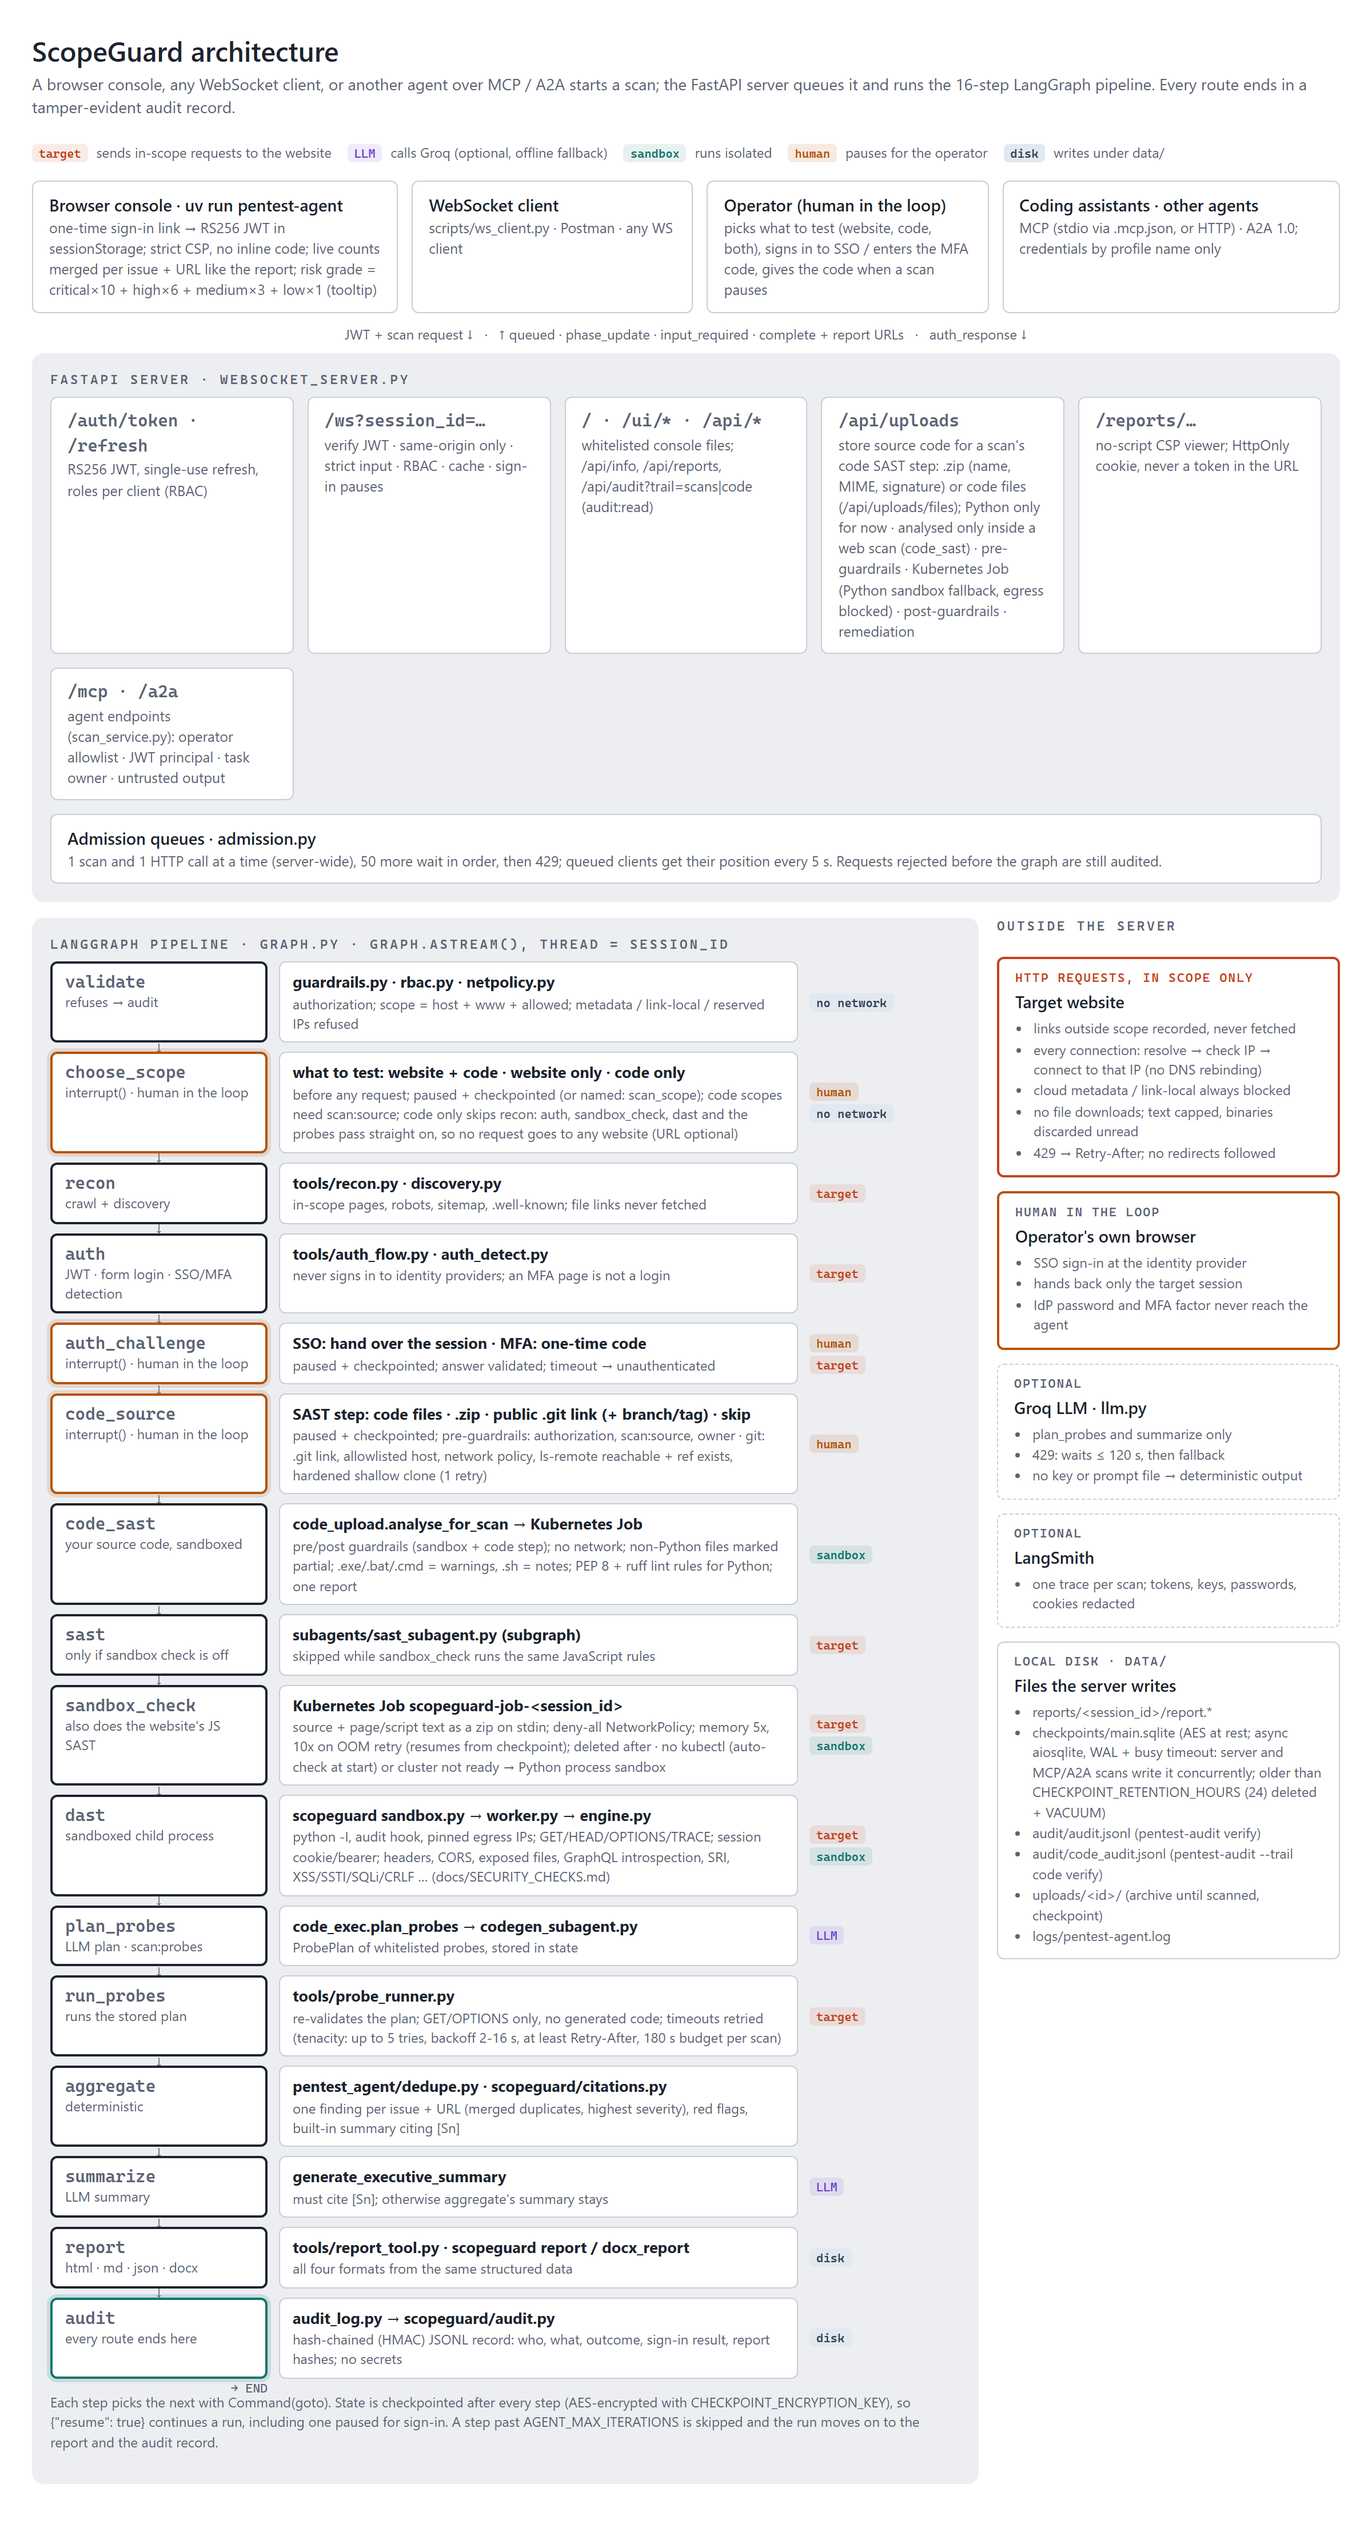
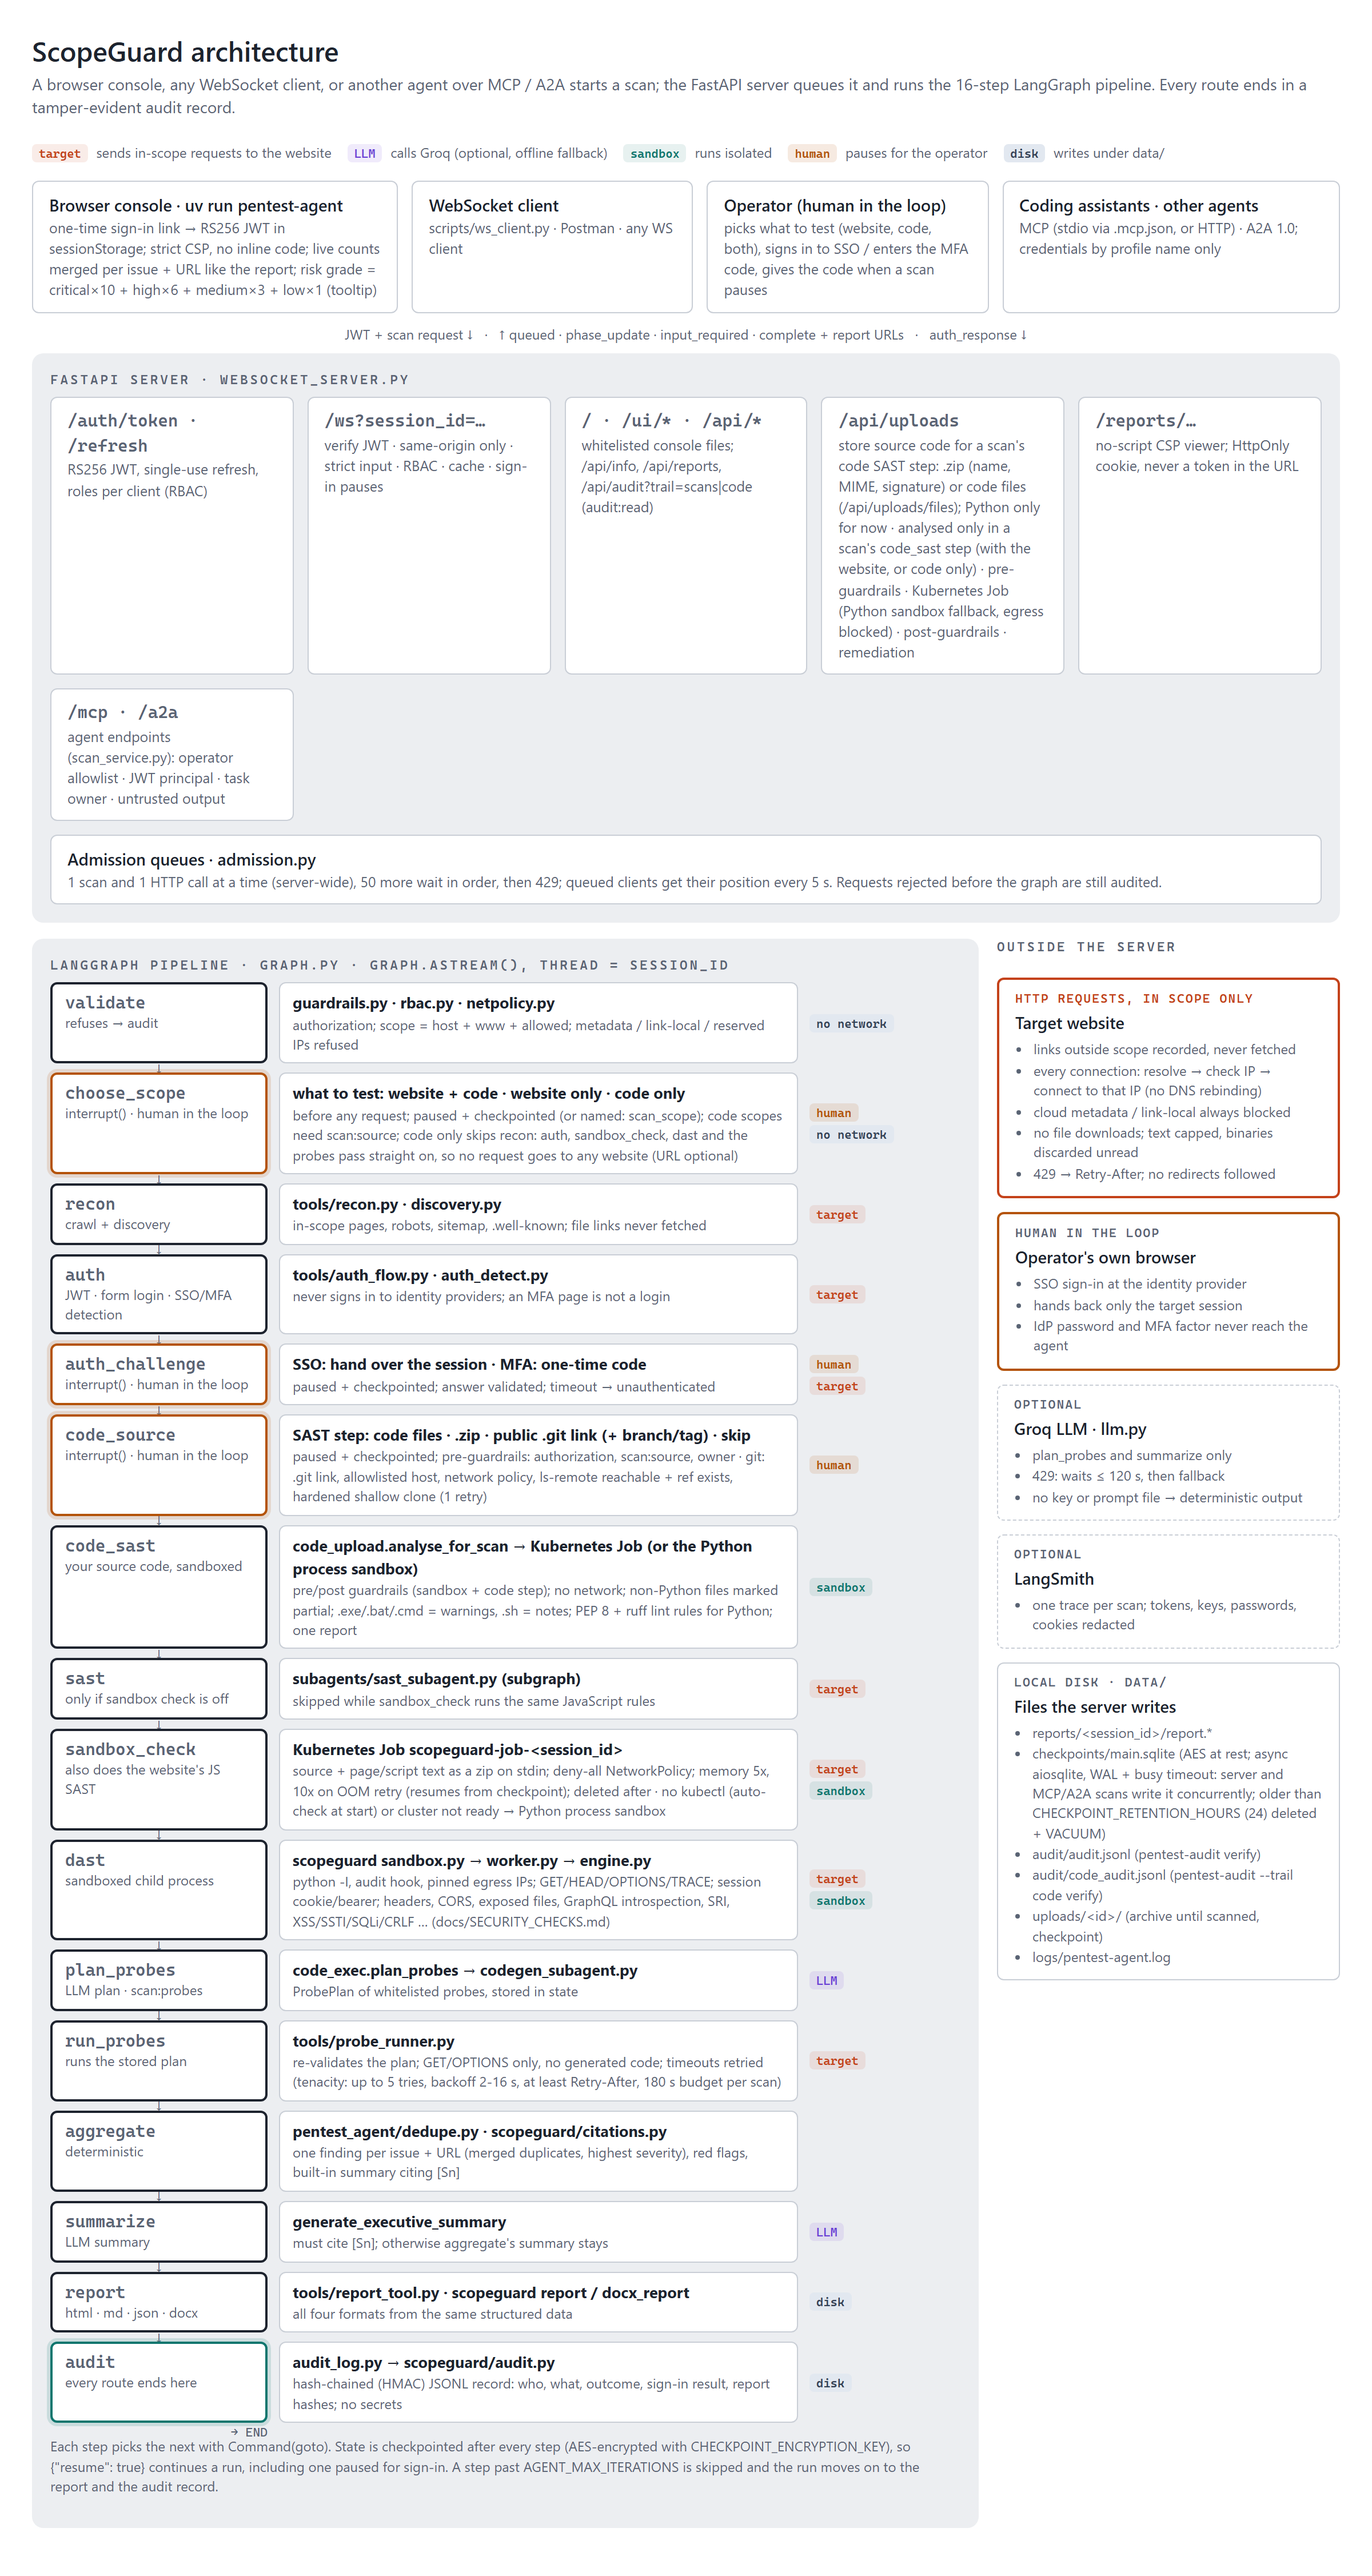
Docs: code analysis runs in Kubernetes or the process sandbox, with or without the website
The skill, the MCP guide, the MCP server's instructions to assistants and
the architecture / MCP tools diagrams still said code always runs in a
Kubernetes Job and only inside a web scan.

- code runs in a Kubernetes Job, or in the Python process sandbox (also no
  network) when no cluster is ready
- code is analysed as a scan's code_sast step, with the website or on its
  own (scan_scope="code")
- diagrams re-rendered, skill repackaged

diff --git a/docs/src/architecture.html b/docs/src/architecture.html
@@ -81,7 +81,7 @@
       <div class="box"><span class="t mono">/auth/token · /refresh</span><span>RS256 JWT, single-use refresh, roles per client (RBAC)</span></div>
       <div class="box"><span class="t mono">/ws?session_id=…</span><span>verify JWT · same-origin only · strict input · RBAC · cache · sign-in pauses</span></div>
       <div class="box"><span class="t mono">/ · /ui/* · /api/*</span><span>whitelisted console files; /api/info, /api/reports, /api/audit?trail=scans|code (audit:read)</span></div>
-      <div class="box"><span class="t mono">/api/uploads</span><span>store source code for a scan's code SAST step: .zip (name, MIME, signature) or code files (/api/uploads/files); Python only for now · analysed only inside a web scan (code_sast) · pre-guardrails · Kubernetes Job (Python sandbox fallback, egress blocked) · post-guardrails · remediation</span></div>
+      <div class="box"><span class="t mono">/api/uploads</span><span>store source code for a scan's code SAST step: .zip (name, MIME, signature) or code files (/api/uploads/files); Python only for now · analysed only in a scan's code_sast step (with the website, or code only) · pre-guardrails · Kubernetes Job (Python sandbox fallback, egress blocked) · post-guardrails · remediation</span></div>
       <div class="box"><span class="t mono">/reports/…</span><span>no-script CSP viewer; HttpOnly cookie, never a token in the URL</span></div>
       <div class="box"><span class="t mono">/mcp · /a2a</span><span>agent endpoints (scan_service.py): operator allowlist · JWT principal · task owner · untrusted output</span></div>
       <div class="box wide"><b>Admission queues · admission.py</b><span>1 scan and 1 HTTP call at a time (server-wide), 50 more wait in order, then 429; queued clients get their position every 5 s. Requests rejected before the graph are still audited.</span></div>
@@ -117,7 +117,7 @@
         <div class="tags"><i class="tag you">human</i></div>
 
         <div class="node"><span class="t">code_sast</span><span>your source code, sandboxed</span></div>
-        <div class="mod"><b>code_upload.analyse_for_scan → Kubernetes Job</b><span>pre/post guardrails (sandbox + code step); no network; non-Python files marked partial; .exe/.bat/.cmd = warnings, .sh = notes; PEP 8 + ruff lint rules for Python; one report</span></div>
+        <div class="mod"><b>code_upload.analyse_for_scan → Kubernetes Job (or the Python process sandbox)</b><span>pre/post guardrails (sandbox + code step); no network; non-Python files marked partial; .exe/.bat/.cmd = warnings, .sh = notes; PEP 8 + ruff lint rules for Python; one report</span></div>
         <div class="tags"><i class="tag box">sandbox</i></div>
 
         <div class="node"><span class="t">sast</span><span>only if sandbox check is off</span></div>

diff --git a/docs/src/mcp-tools.html b/docs/src/mcp-tools.html
@@ -189,7 +189,7 @@ every scan.</p>
           <span class="d">a .zip (name, MIME type, zip signature checked) or code files; admin; nothing unpacked here; Python only for now</span>
           <div class="tags"><span class="tag guard">rules</span><span class="tag disk">disk</span></div></div>
         <div class="tool"><span class="n">start_scan(upload_id | git_url, scan_scope)</span>
-          <span class="d">the code is analysed only as the scan's code_sast step (git: .git link, reachability checked, optional branch/tag): Kubernetes Job, no network; non-Python files marked partial, executables/batch files as warnings, shell scripts as notes; get_scan.code_sast</span>
+          <span class="d">the code is analysed only as the scan's code_sast step, with the website or code only (git: .git link, reachability checked, optional branch/tag): Kubernetes Job or the Python process sandbox, no network; non-Python files marked partial, executables/batch files as warnings, shell scripts as notes; get_scan.code_sast</span>
           <div class="tags"><span class="tag you">you approve</span><span class="tag guard">rules</span></div></div>
       </div>
     </div>

diff --git a/src/pentest_agent/mcp_server/server.py b/src/pentest_agent/mcp_server/server.py
@@ -48,12 +48,12 @@ status is no longer "running" (standard scans take a few minutes). Read full rep
 get_report; the HTML/DOCX links in report_files are URLs for the user (served by the agent, sign-in
 required).
 
-Source code (admin role; Python projects only for now) is analysed only as a step of a web scan
-(the agent graph's code_sast step): upload_code (a .zip as base64, or files=[{name, content}]) and
+Source code (admin role; Python projects only for now) is analysed only as a step of a scan, with the
+website or on its own (scan_scope='code'; the agent graph's code_sast step): upload_code (a .zip as base64, or files=[{name, content}]) and
 pass its upload_id to start_scan, or pass git_url (a public repository's .git clone link on the
 operator's GIT_ALLOWED_HOSTS, e.g. https://github.com/owner/repo.git, optional git_ref branch or
 tag; the scan checks first that it is reachable and the branch/tag exists) to start_scan. The code is unpacked and analysed only inside
-the sandbox (Kubernetes pod when available); its findings and per-rule recommendations are part of
+the sandbox (a Kubernetes pod when available, otherwise the Python process sandbox); its findings and per-rule recommendations are part of
 the scan's one report (no separate code report; get_scan.code_sast summarises it). Files that are not
 Python are marked: get_scan.code_sast.languages lists them as "not Python, partial coverage", their
 findings start with "[<language>, not Python: partial coverage]" and have low confidence, and a red

diff --git a/src/pentest_agent/mcp_server/CLAUDE.md b/src/pentest_agent/mcp_server/CLAUDE.md
@@ -97,7 +97,7 @@ Then call `start_scan(..., credentials="staging")`.
 | `list_reports(limit=20)` | Saved reports, including ones from the web console, the CLI and A2A. |
 | `get_report(session_id, format="md" or "json", max_chars)` | Full report text. |
 | `verify_audit_log(limit=10, trail="scans")` | Checks the hash chain and report hashes. `trail="code"` reads the separate trail of code uploads, pre/post guardrails and sandbox attempts. Needs `audit:read` (admin). |
-| `upload_code(filename, content_base64)` or `upload_code(files=[{name, content}])` | Stores a source `.zip` or code files (packed into a zip on the server; relative paths of source/text files only), max `MCP_MAX_UPLOAD_MB` (default 10). Name, MIME type and zip signature are checked; nothing is unpacked here. Needs `scan:source` (admin). Returns `upload_id` for `start_scan(upload_id=...)`: code is analysed only as the `code_sast` step of a web scan (in a Kubernetes Job: no network, read-only, memory 5x the code, 10x on an OOM retry). Python projects only for now. |
+| `upload_code(filename, content_base64)` or `upload_code(files=[{name, content}])` | Stores a source `.zip` or code files (packed into a zip on the server; relative paths of source/text files only), max `MCP_MAX_UPLOAD_MB` (default 10). Name, MIME type and zip signature are checked; nothing is unpacked here. Needs `scan:source` (admin). Returns `upload_id` for `start_scan(upload_id=...)`: code is analysed only as a scan's `code_sast` step, with the website or alone (`scan_scope="code"`) (in a Kubernetes Job, or the Python process sandbox when no cluster is ready: no network, read-only, memory 5x the code, 10x on an OOM retry). Python projects only for now. |
 
 `scan_policy.code_uploads` shows whether uploads are allowed, where they run (`kubernetes` / why not) and the
 memory rule. Larger archives go through `POST /api/uploads` (see the root README).

diff --git a/.claude/skills/scopeguard-scan/SKILL.md b/.claude/skills/scopeguard-scan/SKILL.md
@@ -188,7 +188,8 @@ the admin role (`scan:source`) and covers **Python projects only for now** (tell
    `start_scan(target_url, authorization_confirmed=true, upload_id=...)` (or `git_url=...`; never both).
    Add `scan_scope="code"` when they want only the code checked: `target_url` may then be left out (no
    website is needed or contacted). `scan_scope="website"` never goes with code.
-3. Follow with `get_scan` as usual. The code runs in a Kubernetes Job with no network (5x the code's size
+3. Follow with `get_scan` as usual. The code runs in a Kubernetes Job with no network, or in the Python
+   process sandbox (also no network) when no Kubernetes cluster is ready (5x the code's size
    in memory, 10x on an out-of-memory retry that resumes from the checkpoint). Its findings
    (`source: code_upload`) are in the same `findings` list and report; `code_sast` summarises the code
    (file name, sha256, `source`: zip / files / git URL + commit, findings, sandbox, `languages`). A red
